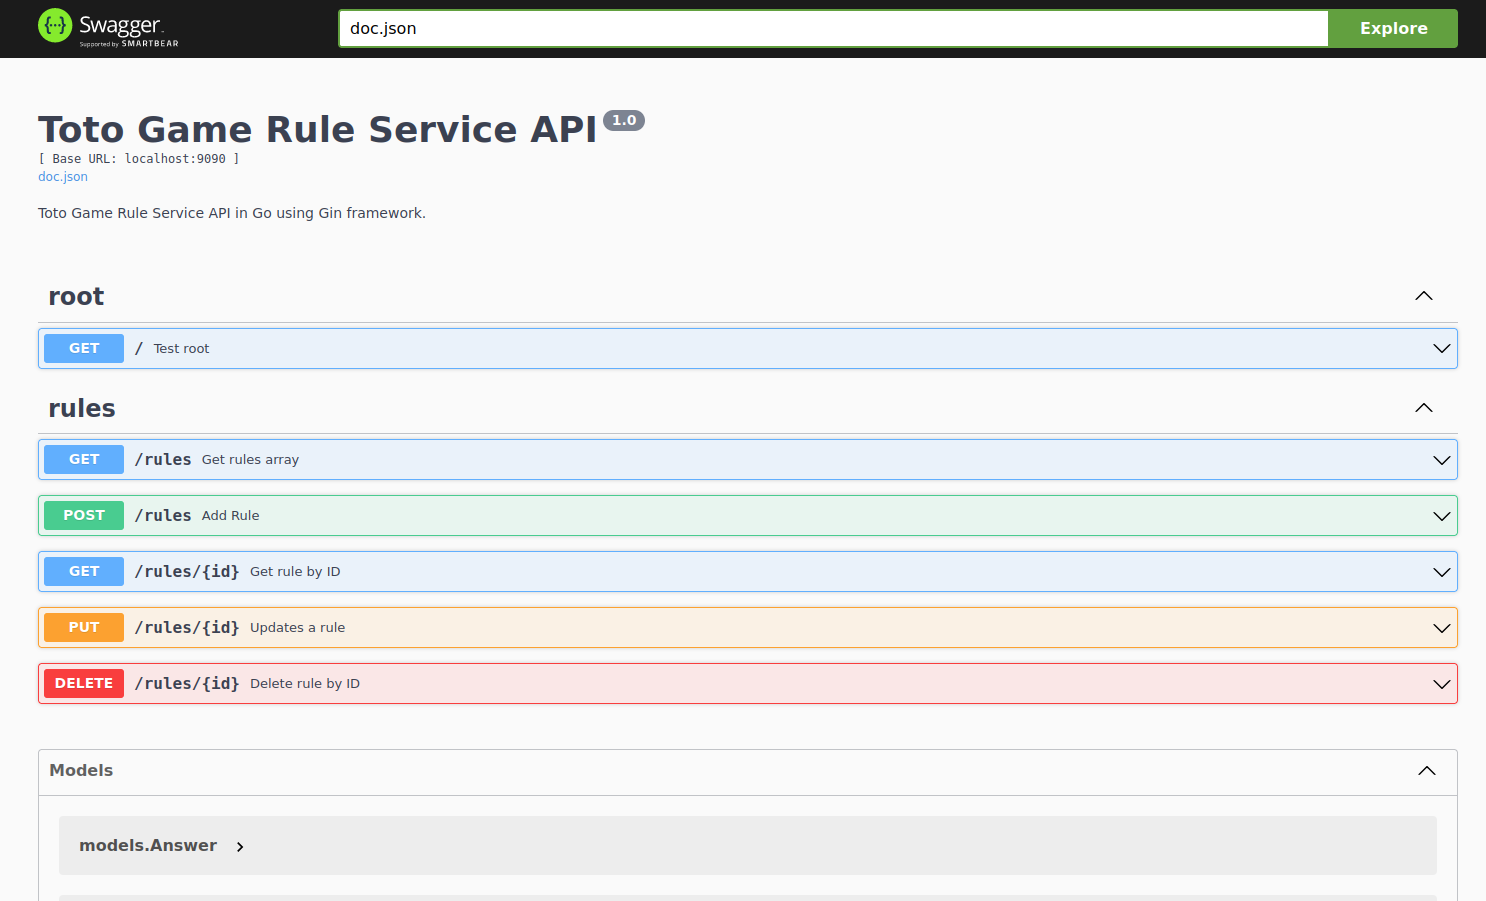
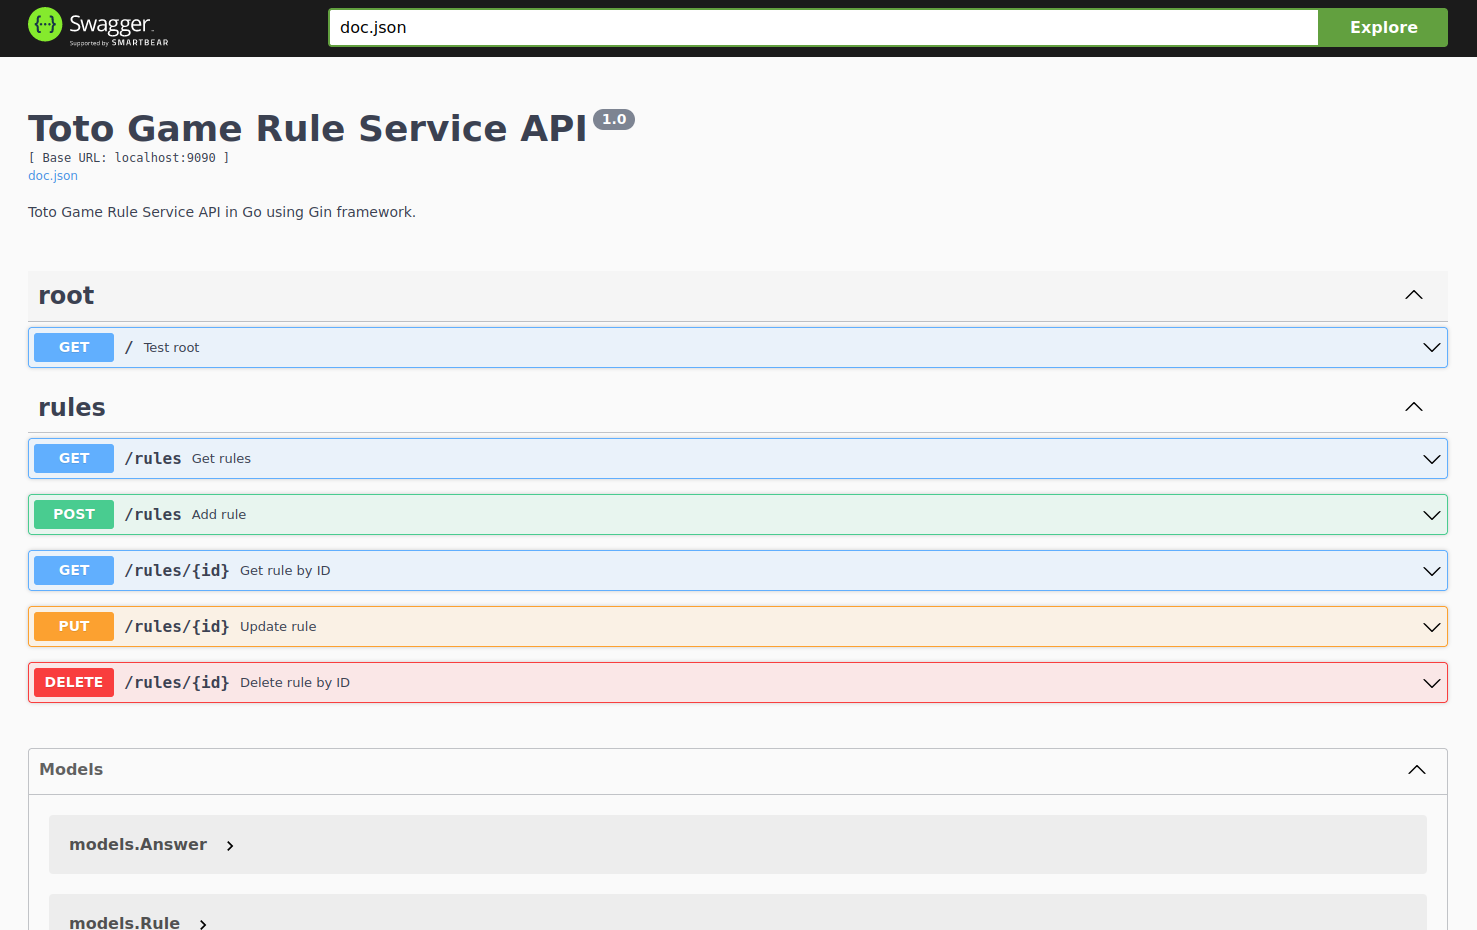
docs: fix typos

diff --git a/docs/docs.go b/docs/docs.go
@@ -45,7 +45,7 @@ const docTemplate = `{
                 "tags": [
                     "rules"
                 ],
-                "summary": "Get rules array",
+                "summary": "Get rules",
                 "responses": {
                     "200": {
                         "description": "OK",
@@ -66,7 +66,7 @@ const docTemplate = `{
                 "tags": [
                     "rules"
                 ],
-                "summary": "Add Rule",
+                "summary": "Add rule",
                 "parameters": [
                     {
                         "description": "Add rule",
@@ -136,7 +136,7 @@ const docTemplate = `{
                 "tags": [
                     "rules"
                 ],
-                "summary": "Updates a rule",
+                "summary": "Update rule",
                 "parameters": [
                     {
                         "type": "string",

diff --git a/api/controllers/rules_controller.go b/api/controllers/rules_controller.go
@@ -51,7 +51,7 @@ func GetRule() gin.HandlerFunc {
 }
 
 // GetRules godoc
-// @Summary Get rules array
+// @Summary Get rules
 // @Description Responds with the list of all rules as JSON.
 // @Tags rules
 // @Produce json
@@ -86,7 +86,7 @@ func GetRules() gin.HandlerFunc {
 }
 
 // AddRule godoc
-// @Summary      Add Rule
+// @Summary      Add rule
 // @Description  Responds with the rule created of as JSON.
 // @Tags         rules
 // @Accept       json
@@ -175,7 +175,7 @@ func DeleteRule() gin.HandlerFunc {
 }
 
 // UpdateRule godoc
-// @Summary      Updates a rule
+// @Summary      Update rule
 // @Description  Responds with a rule as JSON
 // @Tags         rules
 // @Accept       json
